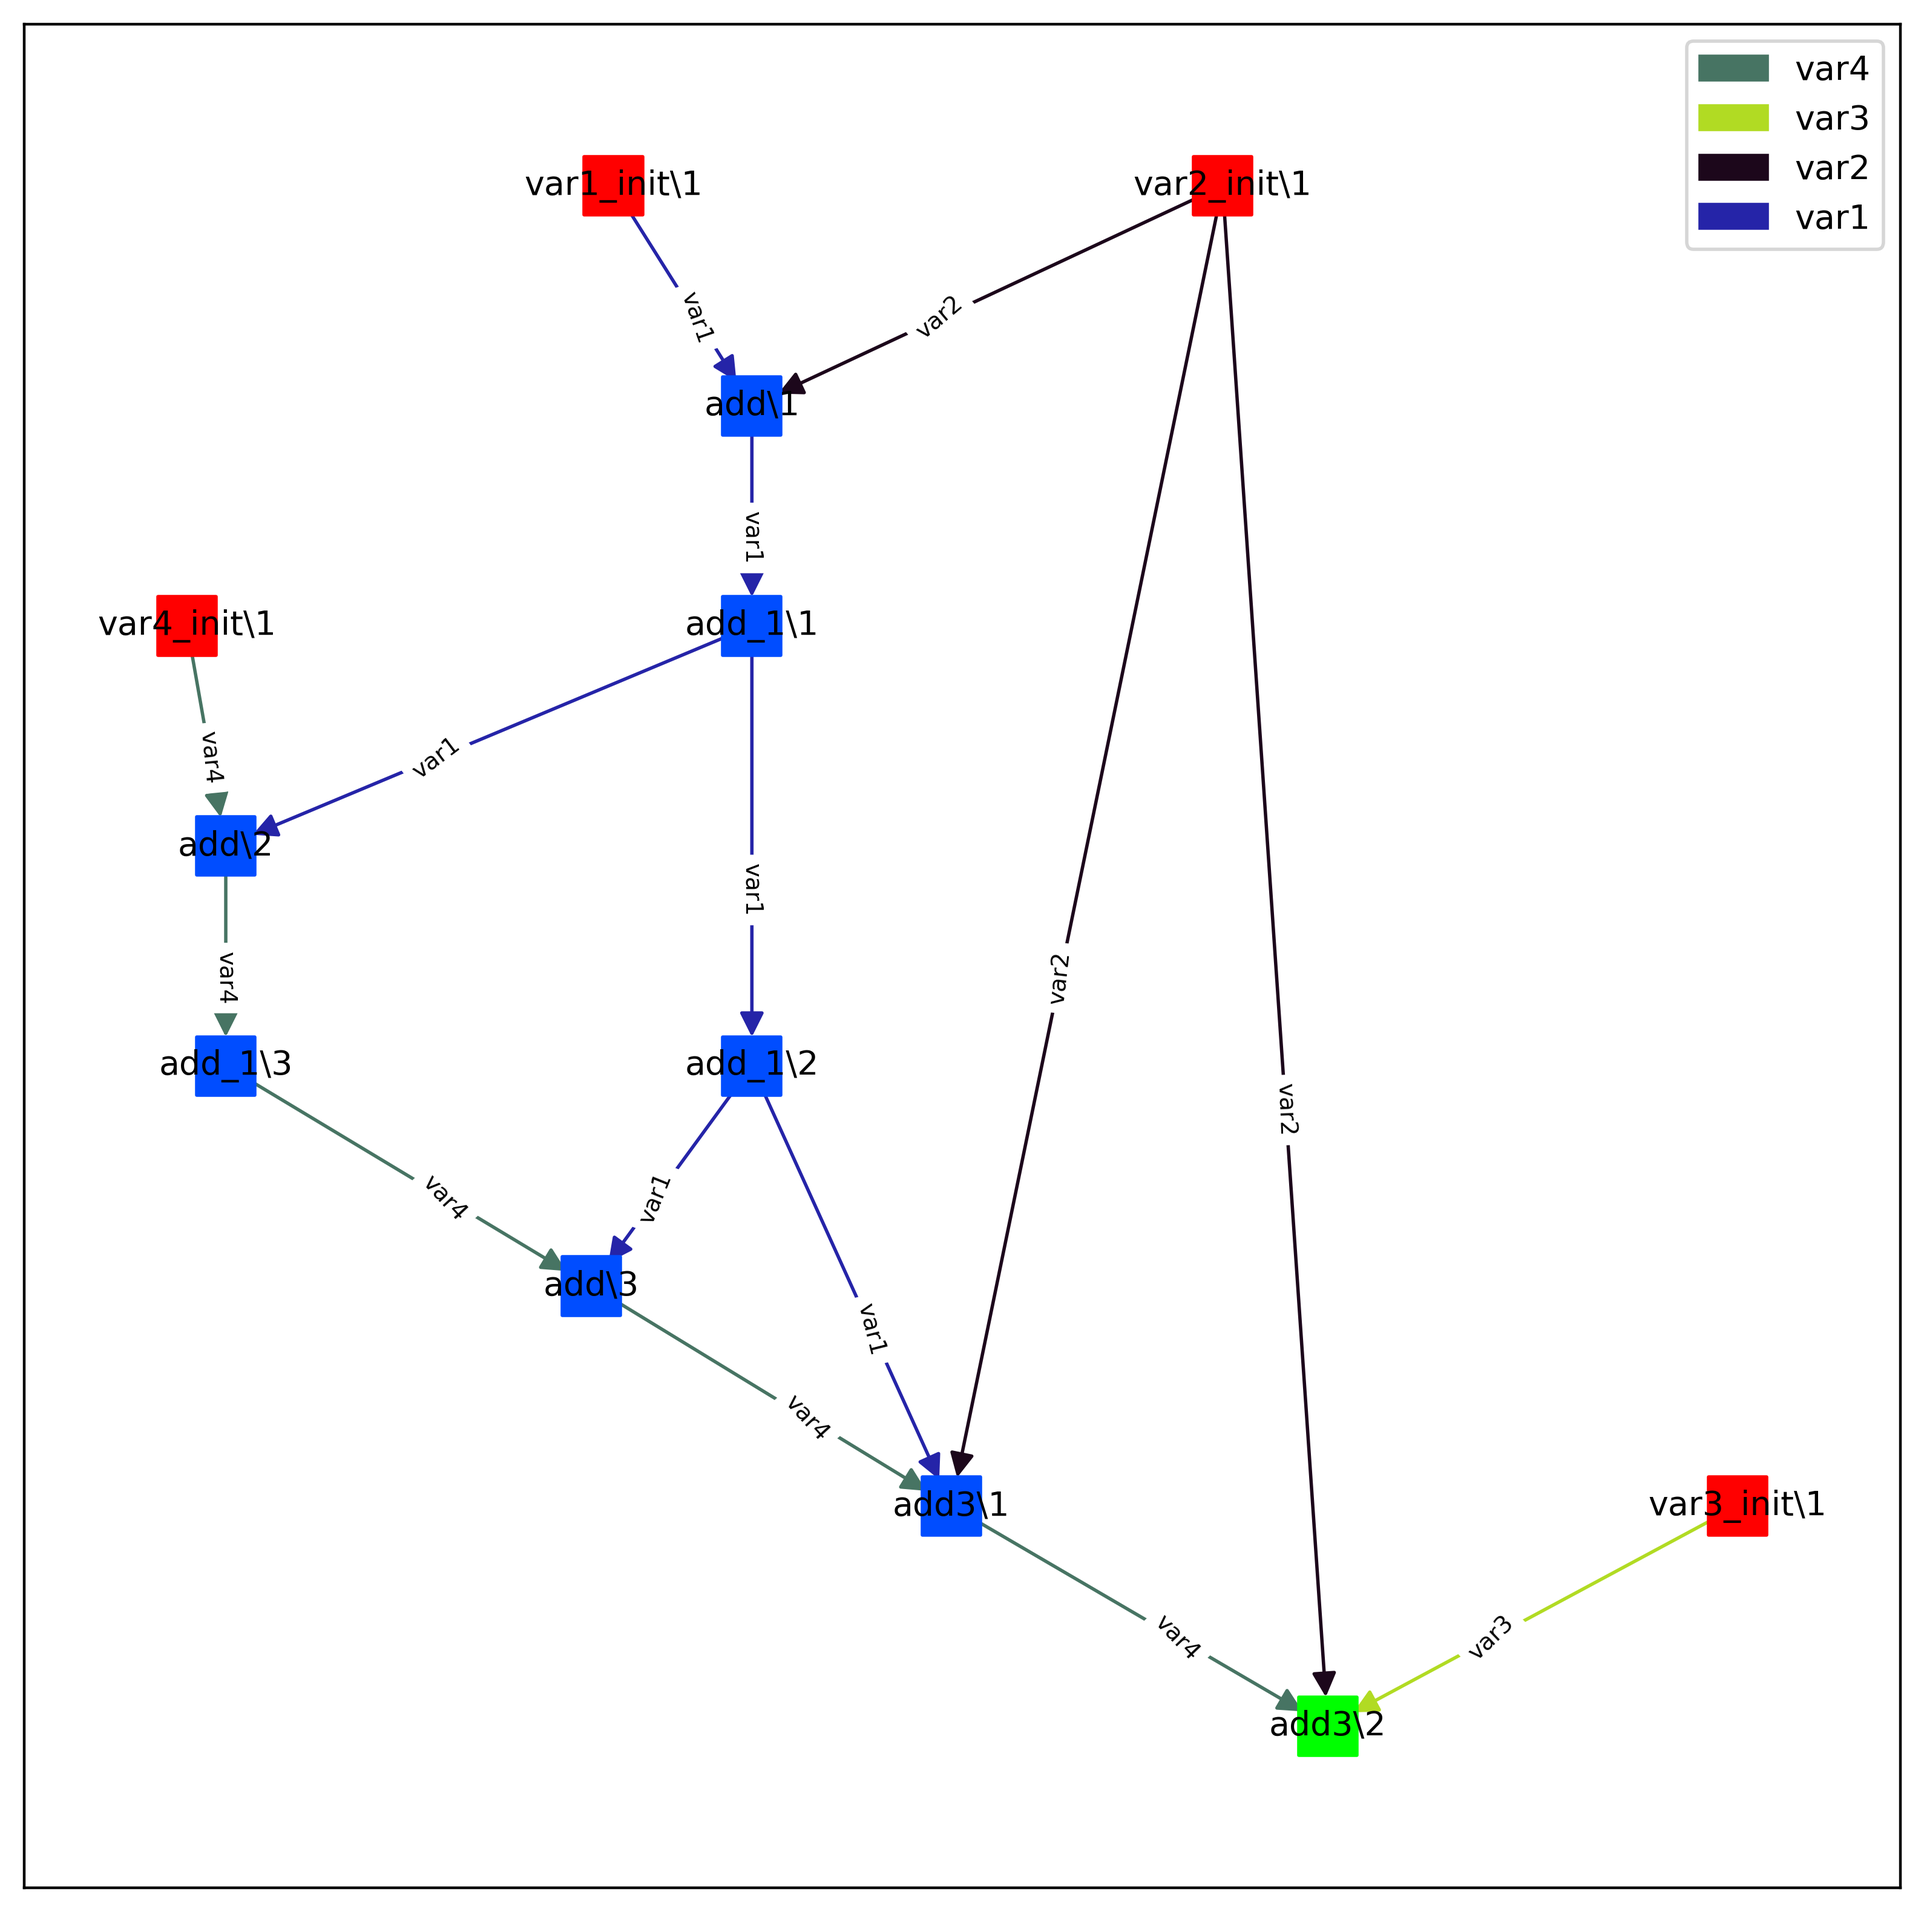
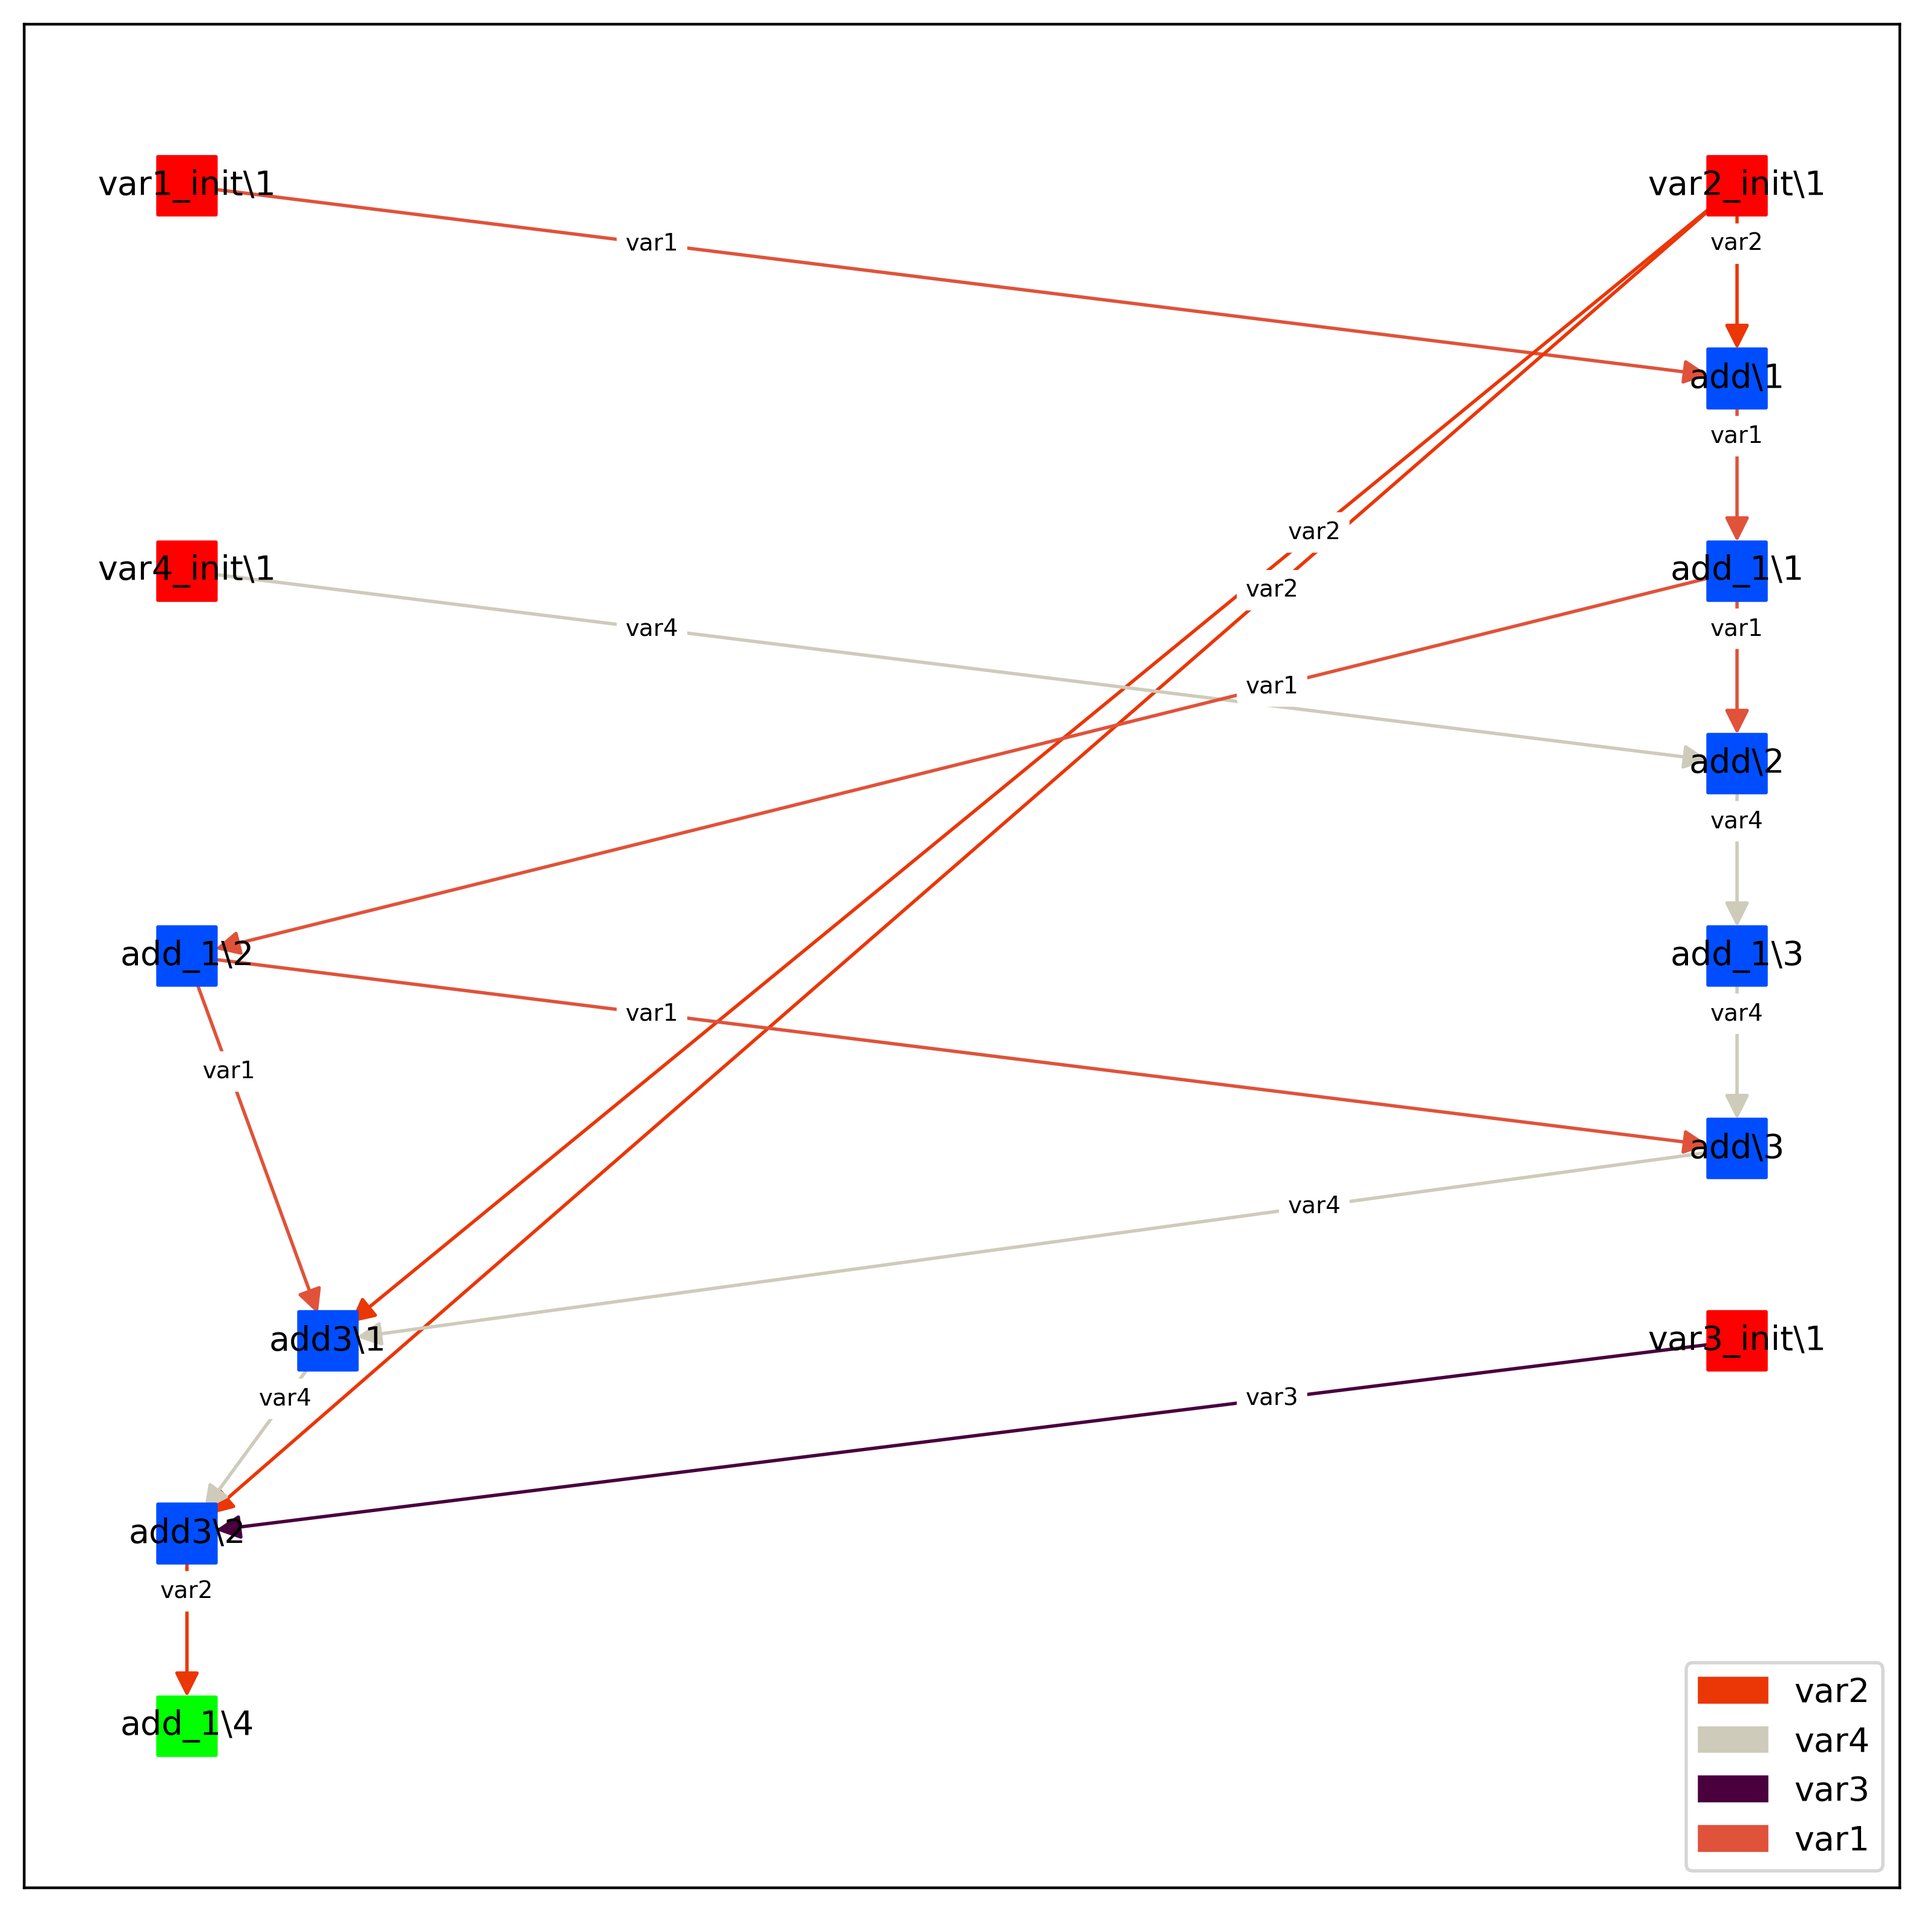
better graph visualization

diff --git a/bread/_graph.py b/bread/_graph.py
@@ -34,7 +34,6 @@ class Graph:
         G.nodes[root]['color']=[0,1,0]
         for i in range(l):
             lookfor = self.context.record[l - i - 1].inputs
-            print(lookfor)
             found = []
             for j in range(l-i - 1, 0, -1):
                 for v in lookfor:
@@ -58,7 +57,7 @@ class Graph:
             else:
                 unsortedtiers[length] = [node]
 
-        unsortedtiers[0] = [root]
+        unsortedtiers[1] = [root]
         tiers = {} 
         maxdepth = max([x for x in unsortedtiers])
         for i in range(maxdepth + 1):
@@ -66,74 +65,82 @@ class Graph:
                 tiers[i] = unsortedtiers[i]
             else:
                 tiers[i] = []
-        #attemps to keep chains of functions ontop of eachother
 
-        print(tiers)
+        #attemps to keep chains of functions ontop of eachother iterateively adjusting
+        for _ in range(10):
+            for i in [x for x in tiers]:
+                for ind in range(len(tiers[i])):
+                    x = tiers[i][ind]
+                    if x == None:
+                        continue
 
-        for i in [x for x in tiers][:-1]:
-            for ind in range(len(tiers[i])):
-                x = tiers[i][ind]
-                if x == None:
-                    continue
-                successors = [succ for succ in G.predecessors(x)]
-                print(x, successors)
-                #print(x, [succ for succ in G.successors(x)])
-                succIndex = [tiers[i + 1].index(succ) for succ in successors if succ in tiers[i+1]]
+                    predecessors = [pred for pred in G.predecessors(x)]
 
-                sharedSuccIndex = [tiers[i].index(succ) for succ in successors if succ in tiers[i]]
+                    predIndex = [tiers[i + 1].index(pred) for pred in predecessors if pred in tiers[i+1]]
 
-                if len(sharedSuccIndex) > 0 and (sharedSuccIndex != ind + 1 or sharedSuccIndex != ind - 1):
-                    print(sharedSuccIndex, ind, x)
-
-                    if not ind + 1 >= len(tiers[i]):
-                        c = tiers[i][ind+1]
-                        tiers[i][ind+1] = tiers[i][sharedSuccIndex[0]]
-                        tiers[i][sharedSuccIndex[0]] = c
-
-                    else:
-                        c = tiers[i][ind-1]
-                        tiers[i][ind-1] = tiers[i][sharedSuccIndex[0]]
-                        tiers[i][sharedSuccIndex[0]] = c
-
-                if succIndex != ind and len(succIndex) > 0:
-                    if not ind >= len(tiers[i+1]):
-                        c = tiers[i+1][ind]
-                        tiers[i+1][ind] = tiers[i+1][succIndex[0]] 
-                        tiers[i+1][succIndex[0]] = c
-                    else:
-                        tiers[i+1] += [None] * (ind-len(tiers[i+1]) + 1)
-                        c = tiers[i+1][ind]
-                        tiers[i+1][ind] = tiers[i+1][succIndex[0]] 
-                        tiers[i+1][succIndex[0]] = c
-
-        #positions in tiers
-
-        for i in [x for x in tiers][:-1]:
-            print(i)
-            for ind in range(len(tiers[i])):
-                x = tiers[i][ind]
-                for j in range(0, i):
-                    #print(j, i)
-                    pass
+                    sharedpredIndex = [tiers[i].index(pred) for pred in predecessors if pred in tiers[i]]
+                    
+                    #print(predIndex, sharedpredIndex)
 
 
+                    if len(sharedpredIndex) > 0 and (sharedpredIndex != ind + 1 or sharedpredIndex != ind - 1):
+                        #print("triggered")
+                        if not ind + 1 >= len(tiers[i]):
+                            c = tiers[i][ind+1]
+                            tiers[i][ind+1] = tiers[i][sharedpredIndex[0]]
+                            tiers[i][sharedpredIndex[0]] = c
 
-        G.remove_nodes_from(list(nx.isolates(G)))
+                        else:
+                            c = tiers[i][ind-1]
+                            tiers[i][ind-1] = tiers[i][sharedpredIndex[0]]
+                            tiers[i][sharedpredIndex[0]] = c
+
+                    if predIndex != ind and len(predIndex) > 0:
+                        #print("triggered", len(predIndex))
+                        values = [tiers[i+1][pred] for pred in predIndex]
+
+                        if not ind >= len(tiers[i+1]):
+                            c = tiers[i+1][ind]
+                            tiers[i+1][ind] = tiers[i+1][predIndex[0]] 
+                            tiers[i+1][predIndex[0]] = c
+
+                        else:
+                            tiers[i+1] += [None] * (ind-len(tiers[i+1]) + 1)
+                            c = tiers[i+1][ind]
+                            tiers[i+1][ind] = tiers[i+1][predIndex[0]] 
+                            tiers[i+1][predIndex[0]] = c
+
+
+                    for pred in predecessors:
+                        for z in range(len(tiers)):
+                            if pred in tiers[z] and z - i > 1:
+                                #print(pred, x, "predshift")
+                                #if abs(tiers[z].index(pred)/len(tiers[z]) - ind//len(tiers[i])) < .001:
+                                if tiers[z].index(pred) == ind:
+                                    if ind == len(tiers[z]) - 1:
+                                        tiers[i].append(None)
+                                    else:
+                                        tiers[i].insert(ind, None)
+
+
+        #print(tiers)
+        #G.remove_nodes_from(list(nx.isolates(G)))
+
 
         pos = {}
         maxwidth = max([len(tiers[x]) for x in tiers])
+        #print(maxwidth)
         maxdepth = len(tiers)
         for i in tiers:
             for x in range(len(tiers[i])):
                 #x +  + ((x - len(tiers[i])) * i/len(tiers))
                 #pos[tiers[i][x]] = (maxwidth / (len(tiers[i]) + 1) + x - (len(tiers[i])/maxwidth), i)#+ (x/(i + 1)))
                 if tiers[i][x] is not None:
-                    pos[tiers[i][x]] = (x, i)
-                    #pos[tiers[i][x]] = (x, i + (x % 2 * .1))#+ (x/(i + 1)))
+                    #pos[tiers[i][x]] = (maxwidth / (len(tiers[i]) + 1) + x - (len(tiers[i])/maxwidth), i)#+ (x/(i + 1)))
+                    #pos[tiers[i][x]] = (x, i)
+                    #print(x, len(tiers[i]), maxwidth, x * maxwidth/len(tiers[i]))
+                    pos[tiers[i][x]] = (x * maxwidth/len(tiers[i]), i)# + (x % 2 * .1))#+ (x/(i + 1))) #Slightly shifts alternating columns vertically to prevent nonvertical overlaps
                     #pos[tiers[i][x]] = (x, G.nodes[tiers[i][x]]['chron'])
-
-        for i in tiers:
-            print(tiers[i])
 
         nodecolors = nx.get_node_attributes(G,'color')
         plt.rcParams["figure.figsize"] = (10,10)
@@ -147,12 +154,12 @@ class Graph:
         #pos = nx.drawing.layout.spring_layout(G, iterations=1000)
         #pos = nx.drawing.layout.kamada_kawai_layout(G)
         nx.draw_networkx_nodes(G, pos=pos, node_shape="s", node_color = nodecolorlist)
-        nx.draw_networkx_edge_labels(G, pos=pos, clip_on=False, label_pos=.4, font_size=7, edge_labels=nx.get_edge_attributes(G, "name"))
+        nx.draw_networkx_edge_labels(G, pos=pos, clip_on=True, rotate=False, label_pos=.7, font_size=7, edge_labels=nx.get_edge_attributes(G, "name"))
         nx.draw_networkx_labels(G, pos=pos, font_size=10)
-        nx.draw_networkx_edges(G, pos=pos, arrowsize=15, arrowstyle="fancy",edge_color=edgecolorlist)
+        nx.draw_networkx_edges(G, pos=pos, arrowsize=15, arrowstyle="-|>",edge_color=edgecolorlist)
 
         patches = [] 
         for i in colors:
             patches.append(mpatches.Patch(color = "#" + str(i), label=colors[i]))
         plt.legend(handles=patches)
-        plt.savefig("simple_path2.png", bbox_inches='tight', dpi=400) # save as png
+        plt.savefig("simple_path.png", bbox_inches='tight', dpi=400) # save as png

diff --git a/main.py b/main.py
@@ -1,4 +1,6 @@
 import bread as b
+import time
+
 
 d = b.variable(2, name="var1")
 e = b.variable(3, name="var2")
@@ -19,13 +21,16 @@ def add(x, y):
 def add3(x, y, z):
     return x.v + y.v + z.v
 
-add(d, e, output=d)
+def graph():
+    print(b.ctx.record)
+    graph = b.Graph()
+    time.sleep(1)
 
+add(d, e, output=d)
 
 add_1(d, output=d)
 
 add(d, f, output=f)
-
 
 add_1(d, output=d)
 
@@ -37,7 +42,7 @@ add3(f, e, d, output=f)
 
 add3(f, c, e, output=e)
 
+add_1(e, output=e)
 
-print(f.v, c.v)
 
 graph = b.Graph()

diff --git a/networktest.py b/networktest.py
@@ -32,7 +32,8 @@ G.add_edge(b.Edge(an, cn))
 G.add_edge(b.Edge(bn, dn))
 
 G.add_edge(b.Edge(an, dn))
+G.add_edge(b.Edge(dn, en))
 
-print(G[4])
+print(G[5])
 
-print(G.get_paths_to(G[1], G[4]))
+print(max([len(x) for x in G.get_paths_to(G[1], G[5])]))
